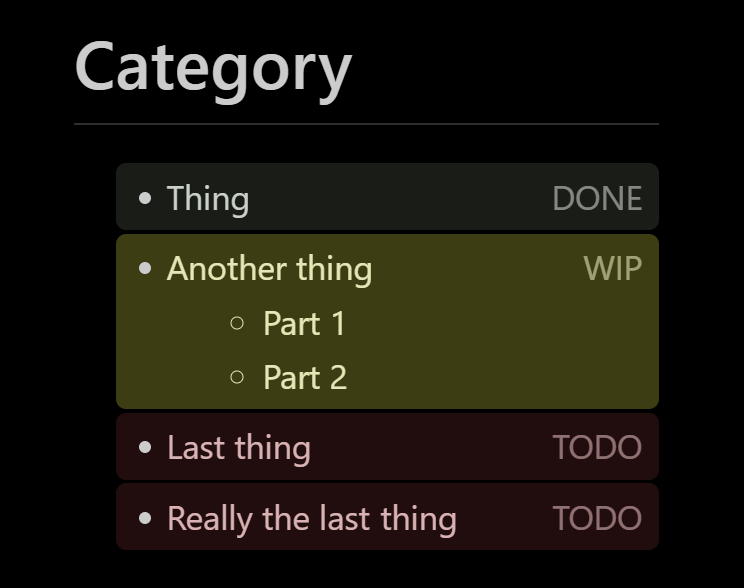
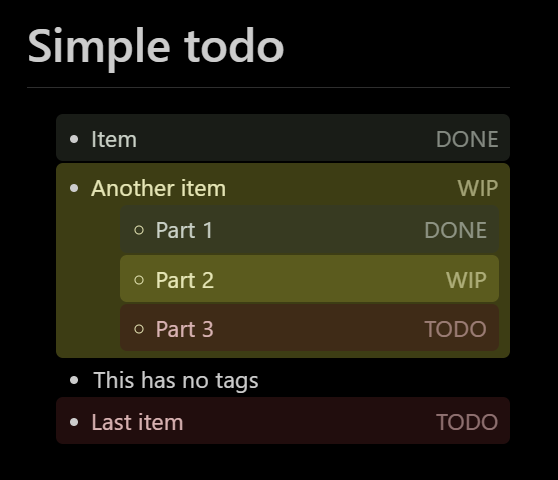
Refactor, more modules

diff --git a/README.md b/README.md
@@ -1,8 +1,24 @@
 `markdown-todos` gives you CSS for Markdown documents viewed in VSCode preview, to indicate the status of items in your nested todo lists.
 
-# Usage
+# Installation
 
-When the CSS is active, place `<todo>` tags at the beginning of your item text, and progress them through yellow `<wip>`, then green `<done>` states.
+Find custom CSS code in the [`/src`](/src) folder.
+
+To affect only the current Markdown preview, paste the custom CSS code into a `<style>` tag in the Markdown source.
+
+To affect all Markdown previews in the current VSCode workspace, or for all VSCode workspaces:
+1. Select **File** > **Preferences** > **Settings**.
+2. Type **Style** in the settings filter.
+3. Select **User** to affect all workspaces, or **Workspace** to affect the current workspace.
+4. Select **Extensions** > **Markdown** from the settings categories.
+5. In the **Markdown: Styles** setting, add the location of your CSS file.
+
+You can add more than one CSS file.
+
+
+# Example usage
+
+When the `simple todo.md` CSS is active, place `<todo>` tags at the beginning of your item text, and progress them through yellow `<wip>`, then green `<done>` states.
 
 ```Markdown
 # Category
@@ -18,16 +34,11 @@ To activate a live Markdown preview in VSCode, press Ctrl+Shift+V.
 
 ![A nested todo list, where each item has a background styled to match the state of the item. All done items are dark green, all work-in-progress items are yellow, and all todo items are dark red. Each item also contains extra text from the CSS, with the word "DONE", "WIP", or "TODO", which might be read by a screen reader.](docs/assets/simple-todo.png)
 
-# Installation
 
-To affect only the current Markdown preview, paste the custom CSS into a `<style>` tag in the Markdown source.
+# Other modules
+![](docs/assets/priority-and-stars.png)
+![](docs/assets/other.png)
 
-To affect all Markdown previews in the current VSCode workspace, or for all VSCode workspaces:
-1. Select **File** > **Preferences** > **Settings**.
-2. Type **Style** in the settings filter.
-3. Select **User** to affect all workspaces, or **Workspace** to affect the current workspace.
-4. Select **Extensions** > **Markdown** from the settings categories.
-5. In the **Markdown: Styles** setting, add the location of your CSS file.
 
 # See also
 

diff --git a/src/priority and stars.md b/src/priority and stars.md
@@ -1,0 +1,56 @@
+## Priority tags
+- Priority 1<o p1>
+- Priority 2<o p2>
+- Priority 3<o p3>
+- Priority 4<o p4>
+- Custom content<o p>AB
+
+## Star tags 1..5
+- no stars<o s>
+- 1 star<o s1>
+- 2 stars<o s2>
+- 3 stars<o s3>
+- 4 stars<o s4>
+- 5 stars<o s5>
+
+
+<style>
+  li { margin-bottom: 0.1rem; }
+  o {
+    float: right;
+    min-width: 0.6rem;
+    padding: 0.0rem 0.4rem;
+    display: inline-block;
+    font-weight: 800;
+    color: black;
+    border-radius: 0.3rem;
+    background-color: hsla(120, 0%, 80%, 0.70);
+    text-shadow: 0 0 18px white;
+  }
+
+  /* p = priority tags */
+  o[p1] { background-color: hsla(0, 100%, 70%, 1.0); }
+  o[p2] { background-color: hsla(0, 100%, 80%, 0.8); }
+  o[p3] { background-color: hsla(0, 100%, 90%, 0.5); }
+  o[p4] { background-color: hsla(0, 100%, 95%, 0.4); }
+  o[p1]:before { content: '1'; }
+  o[p2]:before { content: '2'; }
+  o[p3]:before { content: '3'; }
+  o[p4]:before { content: '4'; }
+
+  /* s = star tags */
+  o[s1], o[s2], o[s3], o[s4], o[s5], o[s], o[s0] {
+      background-color: hsla(60, 100%, 50%, 0.18);
+      color: hsla(60, 100%, 50%, 1);
+      text-shadow: 0 0 13px yellow;
+  }
+  o[s]:before, o[s0]:before {
+    content: '\2605';
+    visibility: hidden;
+  }
+  o[s1]:before { content: '\2605'; }
+  o[s2]:before { content: '\2605\2605'; }
+  o[s3]:before { content: '\2605\2605\2605'; }
+  o[s4]:before { content: '\2605\2605\2605\2605'; }
+  o[s5]:before { content: '\2605\2605\2605\2605\2605'; }
+</style>

diff --git a/src/other.md b/src/other.md
@@ -1,0 +1,63 @@
+## Other
+- Hidden inline: <hide>hidden</hide> with non-hidden content after.
+- <now>Working on this now
+- <ti>1234</ti> Story code
+- <tid>0010</tid> Defect code
+- <tic>0099</tic> Clarification code
+- <blocker>Blocker</blocker>
+- Mention user <tag>j5v
+
+
+<style>
+  li { margin-bottom: 0.1rem }
+
+  now {
+    display: block;
+    padding: 2px 8px;
+    margin-left: -0.6rem;
+    box-shadow: 0px 0px 9px 4px hsla(60,100%, 50%, 1);
+  }
+
+  /* ticket numbers */
+  ti, tid, tic {
+    padding: 0rem 0.4rem 0.1rem 0.4rem;
+    background: hsla(120,80%,90%,0.2);
+    color: hsla(120,0%,100%,0.80);
+    font-weight: 400;
+    margin-right: 0.25em;
+    border: 1px solid hsla(120,80%,90%,0.2);
+    border-radius: 4px;
+    letter-spacing: 0.06rem;
+    white-space: nowrap;
+    line-height: 1.9em;
+  }
+  tid { background: hsla(0,80%,85%,0.32) }
+  tic { background: hsla(180,90%,90%,0.32) }
+
+  /* blocker tag */
+  blocker {
+    color: #FEE;
+    background-color: #E00;
+    padding: 2px 5px;
+    margin: 0px 2px 0px 0px;
+    border-radius: 4px;
+  }
+  blocker:hover:after {
+    margin-left: 1rem;
+    content: 'BLOCKED'
+  }
+
+  hide { display: none; }
+
+  tag {
+    background-color: hsla(0,0%,100%,0.05);
+    border-radius: 10rem;
+    padding: 0.1rem 0.6rem;
+    margin-left: 0.3rem;
+    color: hsla(0,100%,80%,1);
+    font-weight: 800;
+    border: 1px solid hsla(0,0%,100%,0.05);
+    box-shadow: 0px 0px 8px hsla(0,100%,90%,0.7);
+  }
+
+</style>

diff --git a/src/simple todo.md b/src/simple todo.md
@@ -1,0 +1,53 @@
+# Simple todo
+- <t d>Item
+- <t w>Another item
+	-	<t d>Part 1
+	- <t w>Part 2
+	- <t t>Part 3
+- This has no tags
+- <t t>Last item
+
+
+<style>
+  /* Done: <t d> or <done>, WIP:  <t w> or <wip>, todo: <t t> or <todo> */
+  :root {
+    --hue-todo: 0;
+    --hue-wip: 60;
+    --hue-done: 120;
+  }
+
+  t, todo, wip, done {
+    display: block;
+    margin-left: -1.6rem;
+    margin-bottom: 0.1rem;
+    padding: 0.2rem 0.5rem 0.2rem 1.5rem; border-radius: 0.3rem;
+  }
+  t:before, todo:before, wip:before, done:before {
+    float: right;
+    opacity: 0.6;
+  }
+
+  t[t], todo { 
+    background-color: hsla(var(--hue-todo),50%,20%,0.50);
+    color: hsl(var(--hue-todo),50%,80%)
+  }
+  t[t]:before, todo:before {
+    content: 'TODO';
+  }
+
+  t[w], wip { 
+    background-color: hsla(var(--hue-wip),60%,30%,0.50);
+    color: hsl(var(--hue-wip),50%,80%)
+  }
+  t[w]:before, wip:before {
+    content: 'WIP';
+  }
+
+  t[d], done { 
+    background-color: hsla(var(--hue-done),10%,20%,0.50);
+    color: hsl(var(--hue-done),10%,80%)
+  }
+  t[d]:before, done:before {
+    content: 'DONE';
+  }
+</style>

diff --git a/docs/customization-hints.md b/docs/customization-hints.md
@@ -2,9 +2,7 @@ You can style existing HTML tags rendered by Markdown preview.
 
 You can use custom tags and attributes with CSS.
 
-To edit faster and make list items more consistent, you can, with matching CSS:
-* use short tag names like <t> for todo, <w> for WIP, and <d> for done.
-* use one tag with different attributes like <t t> for todo, <t w> for WIP, and <t d> for done.
+Markdown processing will close any open tags, before starting a new elements. This means you can sometimes omit a closing tag.
 
 ## Markup vs Markdown
 
